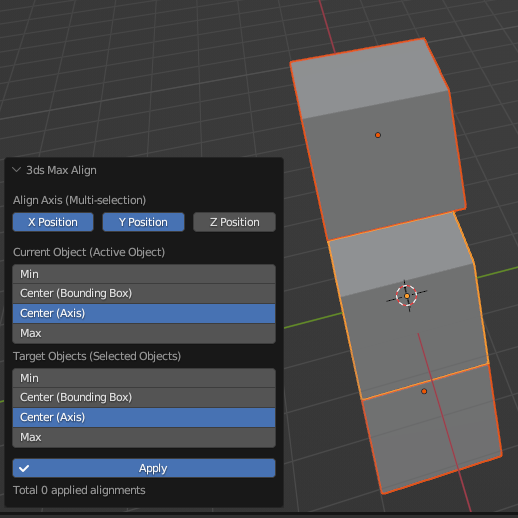
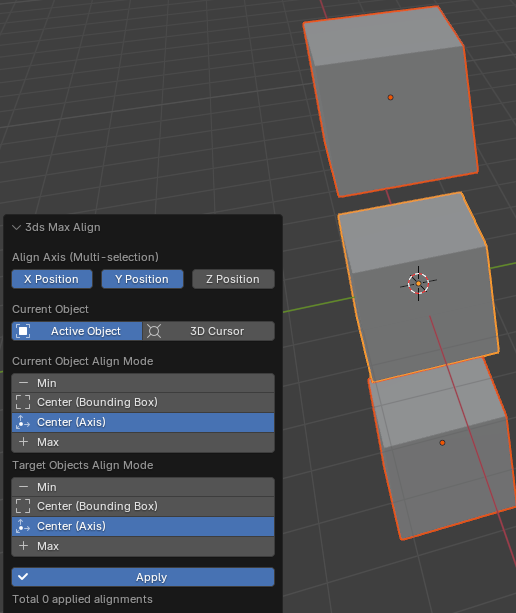
doc: fix legacy align doc

diff --git a/docs/docs/zh-cn/legacy-align.md b/docs/docs/zh-cn/legacy-align.md
@@ -14,9 +14,11 @@
 
 在面板中，`Align Axis`指定了你要对齐的轴，此处可以多选以指定多个轴，不指定任何轴将无法进行对齐操作，因而也无法点击`Apply`按钮。
 
-`Current Object`是对齐参考物体，也就是场景中的活动物体，通常也就是你选择的最后一个物体。在这个选项里指定你需要参考其什么数值进行对齐，分别有`Min`（轴上最小值）、`Center (Bounding Box)`（碰撞箱的中心）、`Center (Axis)`（物体的原点）、`Max`（轴上的最大值）可选。这些选项与3ds Max中的对齐选项是一致的。
+`Current Object`指示选择哪个实例作为对齐参考。你可以选择场景中的活动物体，通常也就是你选择的最后一个物体。或者是3D游标。需要注意的是，如果你选择活动物体模式，那么活动物体将排除在对齐操作之外，不会被移动，因为参考物体是不可动的。而如果你选择3D游标，则活动物体会被纳入对齐操作的范围之中。
 
-`Target Objects`是正在被对齐的物体，可能有很多个，在这个选项里也是指定你需要参考其什么数值进行对齐。选项与`Current Object`含义一致。
+`Current Object Align Mode`是对齐参考物体的对齐模式，它只有在你选择活动物体作为对齐参考物体时才会出现。因为3D游标是一个单纯的点，而物体占有一定体积，我们需要按照某种模式（后文叙述）在空间中选择一个点作为后续对齐操作时使用的点。在这个选项里指定你需要参考其什么数值进行对齐，分别有`Min`（轴上最小值）、`Center (Bounding Box)`（碰撞箱的中心）、`Center (Axis)`（物体的原点）、`Max`（轴上的最大值）可选。这些选项与3ds Max中的对齐选项是一致的。
+
+`Target Objects Align Mode`是正在被对齐的物体，可能有很多个，在这个选项里也是指定你需要参考其什么数值进行对齐。选项与`Current Object Align Mode`含义一致。
 
 `Apply`按钮点击后将把当前页面的配置压入操作栈，并重置上面的设置，使得你可以开始新一轮对齐操作而无需再次执行传统对齐。操作栈中的操作个数在`Apply`按钮下方显示。
 
